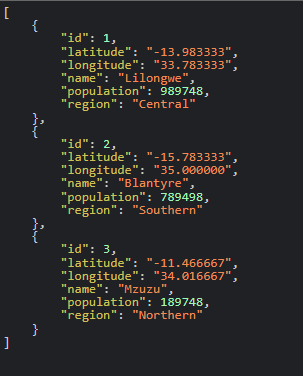
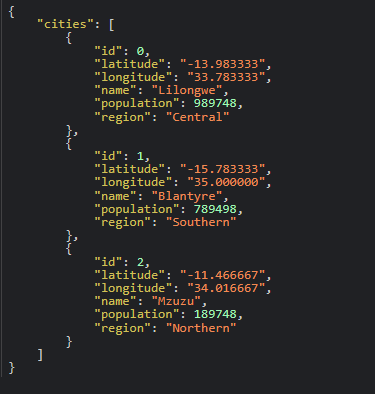
Added new images, updated index.html, cities.py and styles.css

diff --git a/index.html b/index.html
@@ -59,7 +59,7 @@
                         <span class="path"> The path is: /v1/historical_places</span>
                     </p>
                     <p class="card-img">
-                        <img src="v1/assets/images/historical_places.PNG" alt="malawi data" class="historical">
+                        <img src="v1/assets/images/historical_places.PNG" alt="malawi data" class="card-real-img">
                     </p>
                 </div>
             </div>
@@ -73,19 +73,19 @@
                         <span class="path"> The path is: /v1/cities</span>
                     </p>
                     <p class="card-img">
-                        <img src="v1/assets/images/Cities.PNG" alt="malawi data" class="">
+                        <img src="v1/assets/images/cities.PNG" alt="malawi data" class="card-real-img">
                     </p>
                 </div>
             </div>
             <div class="card">
                 <div class="card-body">
-                    <h4 class="card-title">General Population</h4>
+                    <h4 class="card-title">Hospitals in Malawi</h4>
                     <p class="card-text">
-                        <p>This endpoint lists general population about Malawi with thier related data</p>
-                        <span class="path"> The path is: /v1/population</span>
+                        <p>This endpoint lists main hospitals in Malawi with thier related data</p>
+                        <span class="path"> The path is: /v1/hospitals</span>
                     </p>
                     <p class="card-img">
-                        <img src="v1/assets/images/Population.PNG" alt="malawi data" class="">
+                        <img src="v1/assets/images/hospitals.PNG" alt="malawi data" class="card-real-img">
                     </p>
                 </div>
             </div>
@@ -98,7 +98,7 @@
 
                 Throughout the development process, I have learned valuable skills in API design, database management, and web application development. This project has been a challenging yet rewarding journey, allowing me to apply my knowledge and expand my technical expertise.
 
-                As a Portfolio Project for Holberton School, this project has provided me with an opportunity to showcase my skills and demonstrate my ability to build practical solutions.
+                As a Portfolio Project for ALX, this project has provided me with an opportunity to showcase my skills and demonstrate my ability to build practical solutions.
             </p>
         </div>
      </section>

diff --git a/v1/assets/css/styles.css b/v1/assets/css/styles.css
@@ -31,3 +31,8 @@
     border-radius: 50%;
     margin-right: 30px;
 }
+
+.card-real-img{
+    border-radius: 10px;
+    height: 300px;
+}

diff --git a/v1/cities.py b/v1/cities.py
@@ -15,7 +15,7 @@ cities = [
 # The class will return all cities availeble in the list
 class Cities(Resource):
     def get(self):
-        return jsonify(cities)
+        return jsonify({'cities': cities})
     
     # Create a POST method to add new entries to the list
     def post(self):
